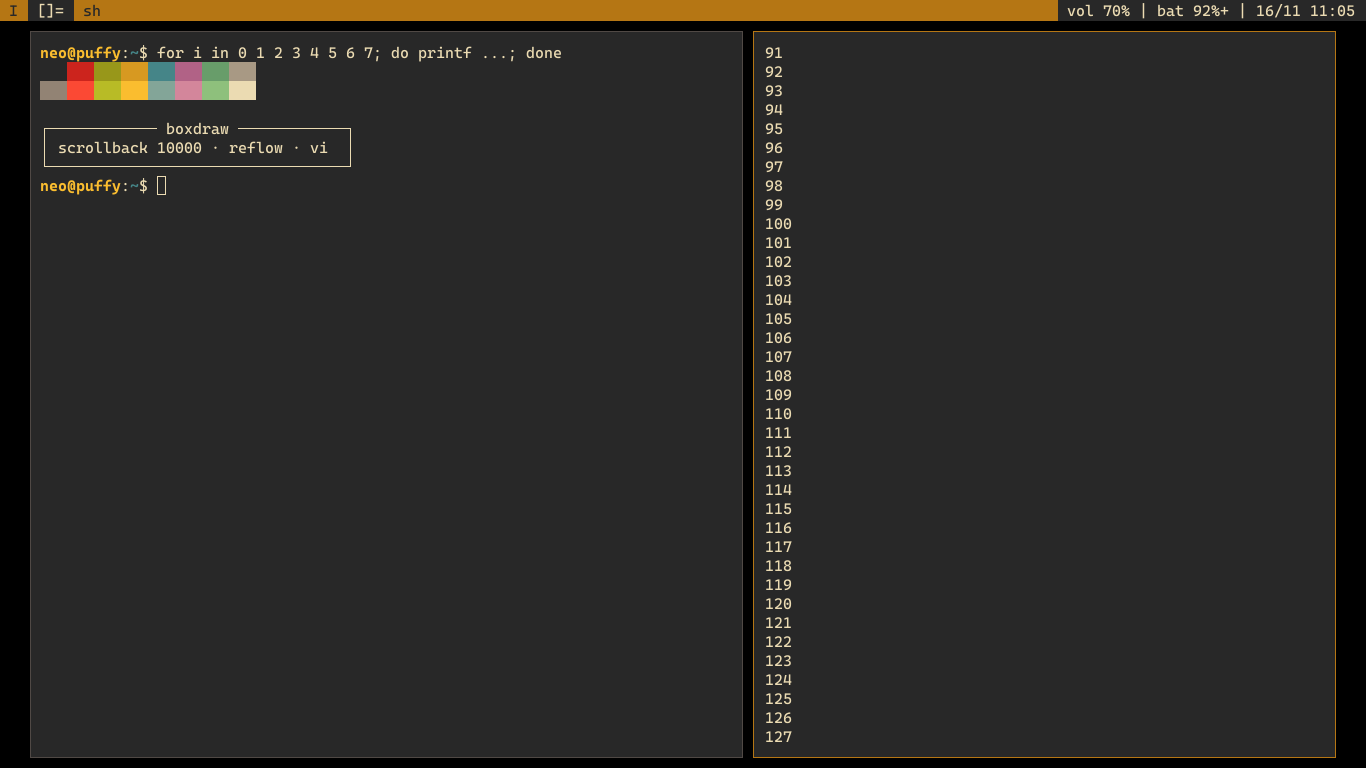
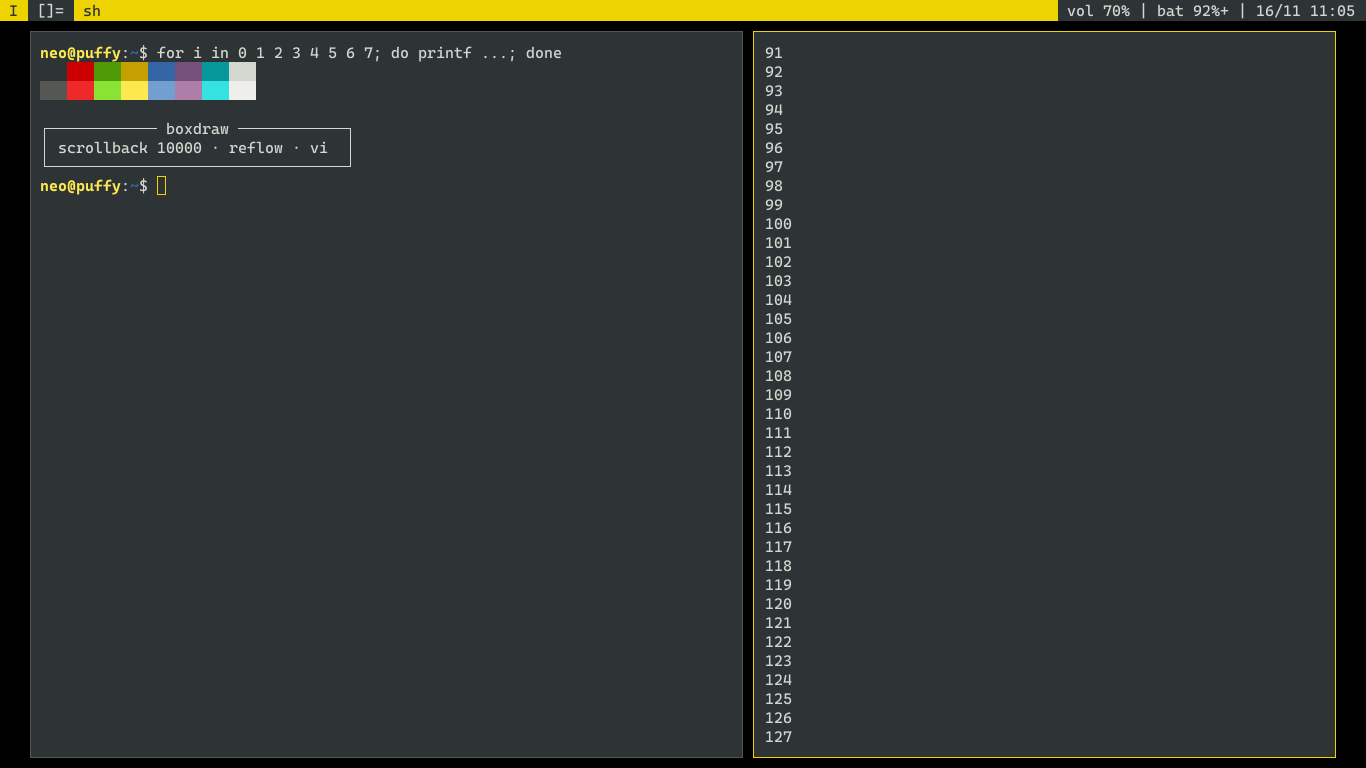
Move st and .Xresources to the Tango palette
The terminal now uses the full Tango palette (#2e3436 background,
#d3d7cf text, #edd400 cursor) in both st/config.h and .Xresources,
so the whole setup is Tango yellow. CORES.md lists the 16 colours
and the st diff in patches/ is regenerated.

diff --git a/st/config.def.h b/st/config.def.h
@@ -187,32 +187,32 @@ char *xdndescchar = " !\"#$&'()*;<>?[\\]^`{|}~";
 /* Terminal colors (16 first used in escape sequence) */
 static const char *colorname[] = {
 	/* 8 normal colors */
-	"#282828",
-	"#cc241d",
-	"#98971a",
-	"#d79921",
-	"#458588",
-	"#b16286",
-	"#689d6a",
-	"#a89984",
+	"#2e3436",
+	"#cc0000",
+	"#4e9a06",
+	"#c4a000",
+	"#3465a4",
+	"#75507b",
+	"#06989a",
+	"#d3d7cf",
 
 	/* 8 bright colors */
-	"#928374",
-	"#fb4934",
-	"#b8bb26",
-	"#fabd2f",
-	"#83a598",
-	"#d3869b",
-	"#8ec07c",
-	"#ebdbb2",
+	"#555753",
+	"#ef2929",
+	"#8ae234",
+	"#fce94f",
+	"#729fcf",
+	"#ad7fa8",
+	"#34e2e2",
+	"#eeeeec",
 
 	[255] = 0,
 
 	/* more colors can be added after 255 to use with DefaultXX */
-	"#ebdbb2", /* 256 -> cursor */
-	"#282828", /* 257 -> rev cursor*/
-	"#282828", /* 258 -> bg */
-	"#ebdbb2", /* 259 -> fg */
+	"#edd400", /* 256 -> cursor */
+	"#2e3436", /* 257 -> rev cursor*/
+	"#2e3436", /* 258 -> bg */
+	"#d3d7cf", /* 259 -> fg */
 };
 
 

diff --git a/st/config.h b/st/config.h
@@ -187,32 +187,32 @@ char *xdndescchar = " !\"#$&'()*;<>?[\\]^`{|}~";
 /* Terminal colors (16 first used in escape sequence) */
 static const char *colorname[] = {
 	/* 8 normal colors */
-	"#282828",
-	"#cc241d",
-	"#98971a",
-	"#d79921",
-	"#458588",
-	"#b16286",
-	"#689d6a",
-	"#a89984",
+	"#2e3436",
+	"#cc0000",
+	"#4e9a06",
+	"#c4a000",
+	"#3465a4",
+	"#75507b",
+	"#06989a",
+	"#d3d7cf",
 
 	/* 8 bright colors */
-	"#928374",
-	"#fb4934",
-	"#b8bb26",
-	"#fabd2f",
-	"#83a598",
-	"#d3869b",
-	"#8ec07c",
-	"#ebdbb2",
+	"#555753",
+	"#ef2929",
+	"#8ae234",
+	"#fce94f",
+	"#729fcf",
+	"#ad7fa8",
+	"#34e2e2",
+	"#eeeeec",
 
 	[255] = 0,
 
 	/* more colors can be added after 255 to use with DefaultXX */
-	"#ebdbb2", /* 256 -> cursor */
-	"#282828", /* 257 -> rev cursor*/
-	"#282828", /* 258 -> bg */
-	"#ebdbb2", /* 259 -> fg */
+	"#edd400", /* 256 -> cursor */
+	"#2e3436", /* 257 -> rev cursor*/
+	"#2e3436", /* 258 -> bg */
+	"#d3d7cf", /* 259 -> fg */
 };
 
 

diff --git a/CORES.md b/CORES.md
@@ -63,8 +63,21 @@ xsetroot -solid "#2e3436"     # aparece se não houver ~/.fehbg
 
 ## Terminal: `st` e `x11/.Xresources`
 
-O st e o `.Xresources` continuam em **Gruvbox** (`#282828` / `#ebdbb2`). O st deste repo lê o `.Xresources`
-(patch xresources), então trocar as cores lá muda o st também:
+O terminal usa a paleta Tango completa: fundo `#2e3436`, texto `#d3d7cf`, cursor `#edd400`.
+
+| Cor | Normal (0-7) | Clara (8-15) |
+|---|---|---|
+| Preto / cinza | `#2e3436` | `#555753` |
+| Vermelho | `#cc0000` | `#ef2929` |
+| Verde | `#4e9a06` | `#8ae234` |
+| Amarelo | `#c4a000` | `#fce94f` |
+| Azul | `#3465a4` | `#729fcf` |
+| Roxo | `#75507b` | `#ad7fa8` |
+| Ciano | `#06989a` | `#34e2e2` |
+| Branco | `#d3d7cf` | `#eeeeec` |
+
+As mesmas cores estão no `st/config.h` (padrão) e no `.Xresources` (prioridade, pelo patch xresources).
+Para ajustar sem recompilar o st, mude o `.Xresources`:
 
 ```sh
 xrdb -merge ~/.Xresources     # vale para os terminais abertos depois

diff --git a/README.md b/README.md
@@ -97,7 +97,7 @@ O dmenu fica como vem. O st foi ajustado para lembrar o alacritty:
 | Modo vi (selecionar com o teclado) | `Ctrl+Shift+Espaço` ou `Ctrl+Shift+Esc` |
 | Busca | `Ctrl+Shift+f` / `Ctrl+Shift+b` |
 | Linhas e caixas desenhadas pelo st | Automático (boxdraw) |
-| Cores Gruvbox | Do `config.h`; o `~/.Xresources` tem prioridade |
+| Cores Tango (cursor amarelo `#edd400`) | Do `config.h`; o `~/.Xresources` tem prioridade |
 
 Patches ligados em `st/patches.h`: reflow, scrollback (+ mouse), clipboard,
 keyboard_select, boxdraw, anysize e xresources. Para ligar ou desligar outro,

diff --git a/patches/README.md b/patches/README.md
@@ -27,7 +27,7 @@ Base: [st-flexipatch](https://github.com/bakkeby/st-flexipatch), commit `9c733c4
 
 | Arquivo | O que é |
 |---|---|
-| `st/st-neo-flexipatch-9c733c4.diff` | `patches.h` ligado, Gruvbox, Cascadia Code, zoom do alacritty, histórico de 10 000 linhas |
+| `st/st-neo-flexipatch-9c733c4.diff` | `patches.h` ligado, Tango, Cascadia Code, zoom do alacritty, histórico de 10 000 linhas |
 
 ```sh
 git clone https://github.com/bakkeby/st-flexipatch && cd st-flexipatch
